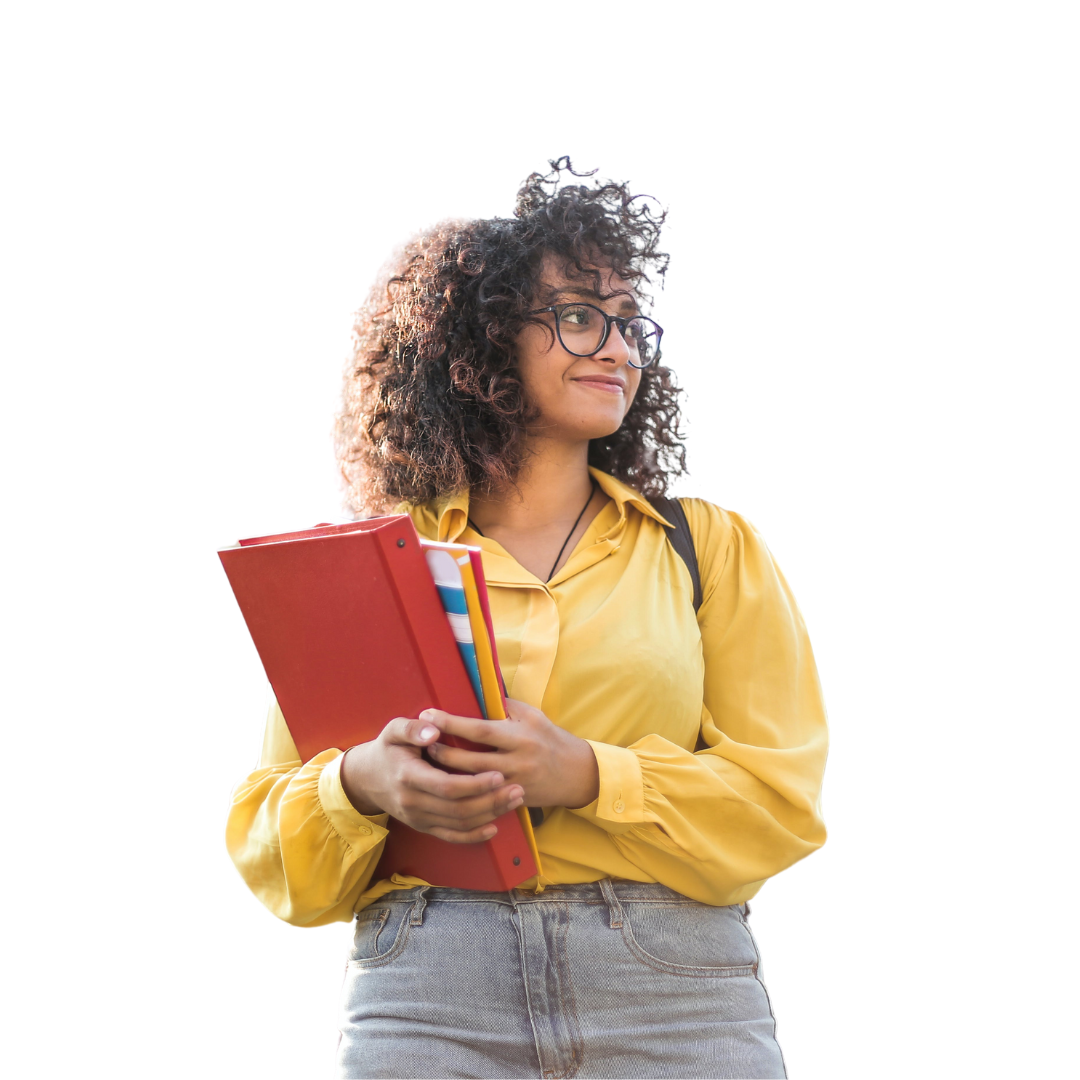
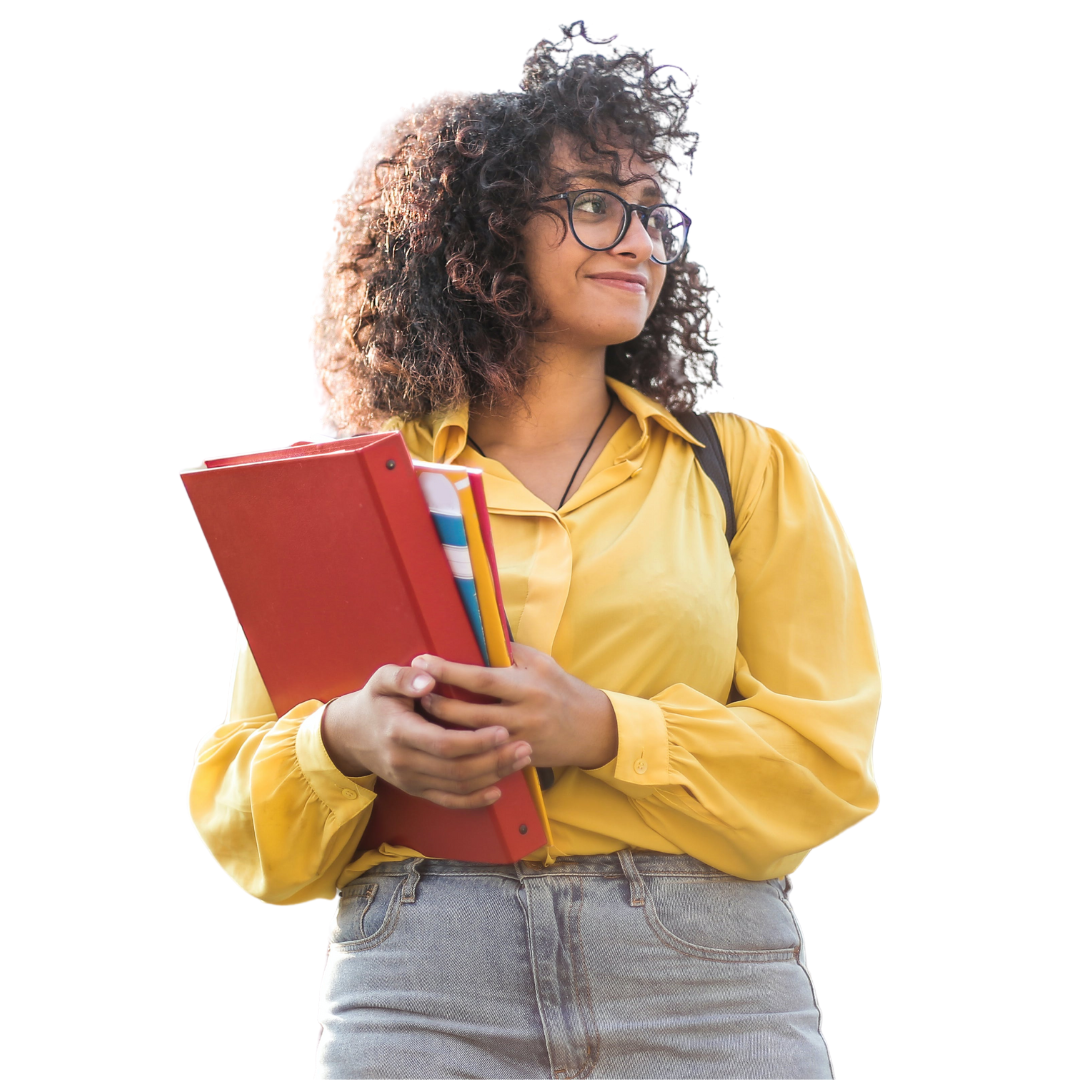
refactor: :speech_balloon: update of the texts

diff --git a/src/app/page.jsx b/src/app/page.jsx
@@ -19,7 +19,6 @@ import star_icon from "../../public/img/star_icon.png";
 import camperWoman from "../../public/img/mujerCamper.png";
 import right_arrow from "../../public/assets/right_arrow.png";
 import camperWoman2 from "../../public/img/mujerCamper2.png";
-import tilde from "../../public/assets/tilde.svg";
 import hombreSentado from "../../public/img/hombreSentado.png";
 import right_arrow_white from "../../public/assets/right_arrow_white.png";
 
@@ -76,9 +75,15 @@ function page() {
             className={`${stretchPro.className} relative col-span-2 flex flex-col order-first mt-5`}
             data-aos="zoom-in"
           >
-            {/* LLEGUEMOS MÁS */}
             <div className="flex justify-center text-3xl sm:text-3xl lg:text-4xl xl:text-5xl pb-1">
               <p className="text-center tracking-tight">SOBREPASA<br/>LAS BARRERAS<br/>DEL ESPACIO</p>
+              <div className="hidden lg:flex absolute -right-11 bottom-3 xl:-right-9 xl:bottom-4 border border-black rounded-3xl px-4">
+              <Image
+                className="w-6 h-6 xl:w-8 xl:h-7"
+                src={right_arrow}
+                alt="campuslands logo"
+              />
+            </div>
             </div>
           </div>
           {/* <------ Last headers section ------> */}
@@ -167,9 +172,9 @@ function page() {
             <div className="relative h-80 w-80 rounded-xl">
               <div className="absolute w-80 h-40 bg-[#F4B422] bottom-0 rounded-xl"></div>
               <Image
-                className="absolute left-"
+                className="absolute"
                 src={camperWoman}
-                style={{ height: "400px", bottom: "0px" }}
+                style={{ height: "360px", bottom: "0px" }}
               />
             </div>
             <p className="text-black text-lg font-bold py-2">

diff --git a/src/components/NavigationBar.jsx b/src/components/NavigationBar.jsx
@@ -20,7 +20,7 @@ export default function App() {
       href: "#",
     },
     {
-      name: "Conocenos",
+      name: "Conócenos",
       href: "#",
     },
     {
@@ -36,7 +36,7 @@ export default function App() {
       href: "#",
     },
     {
-      name: "Visitanos",
+      name: "Visítanos",
       href: "#",
     },
   ];
